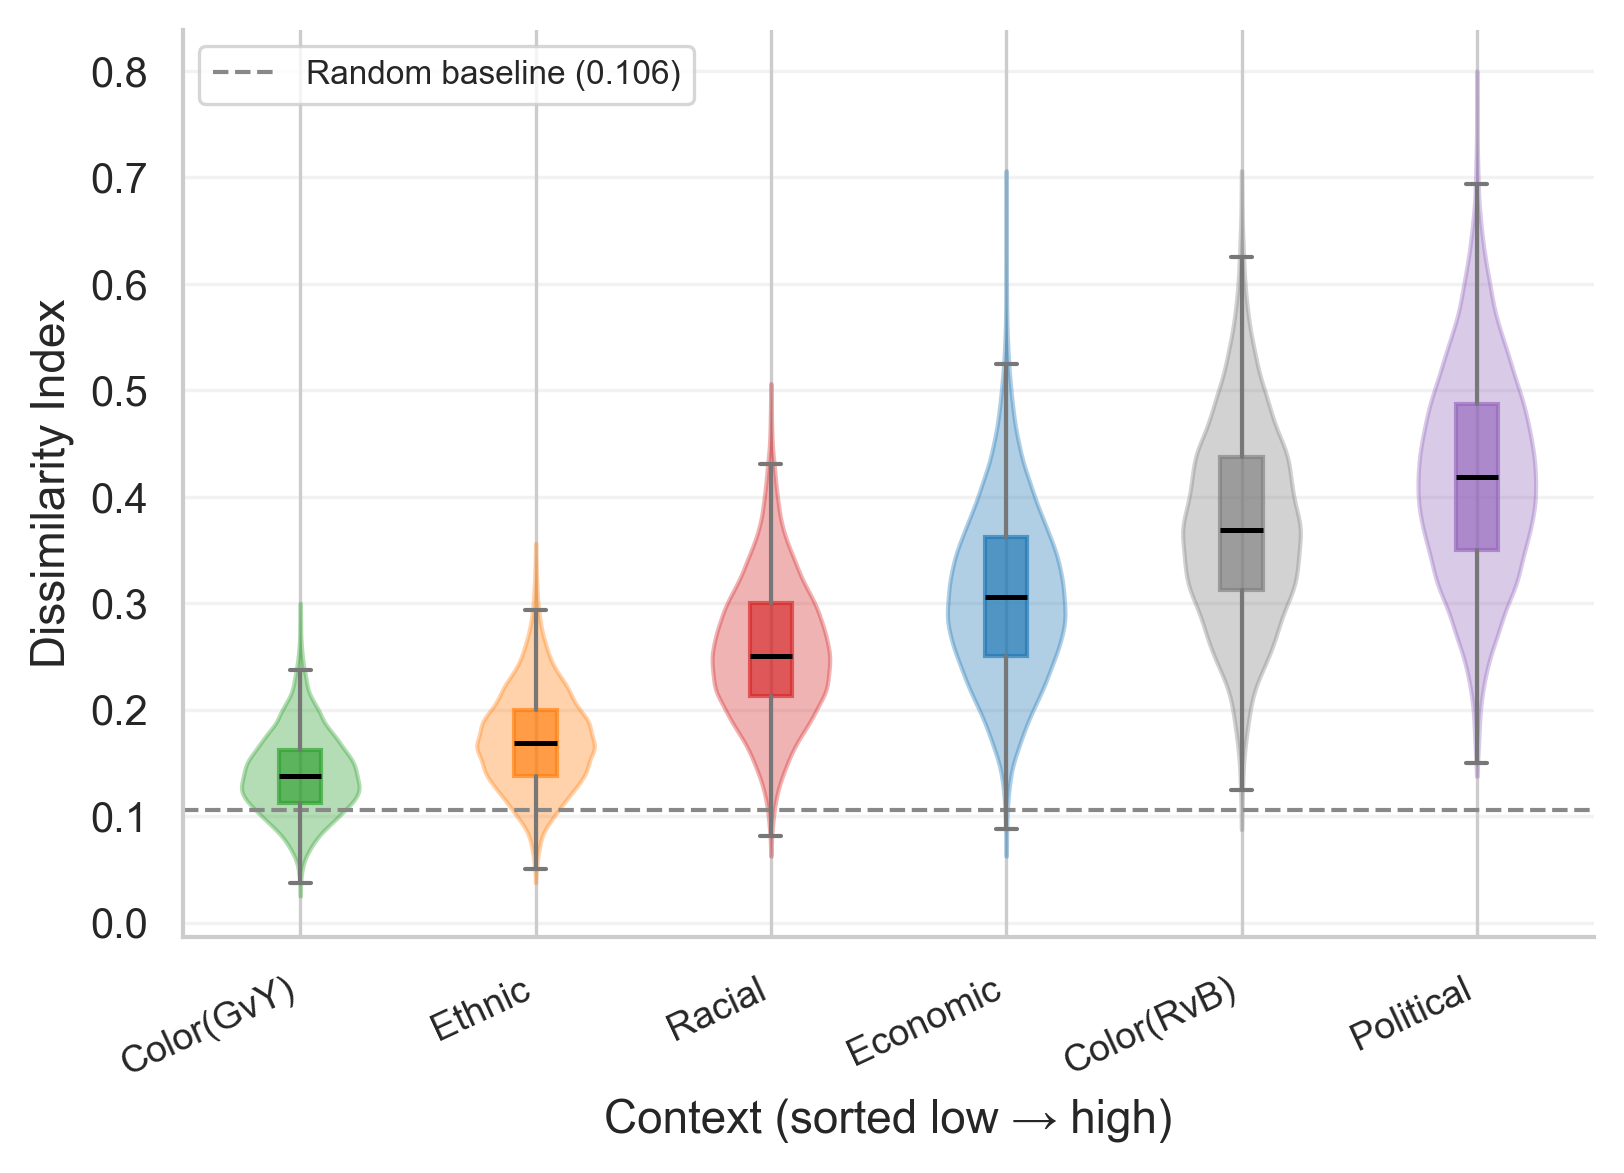
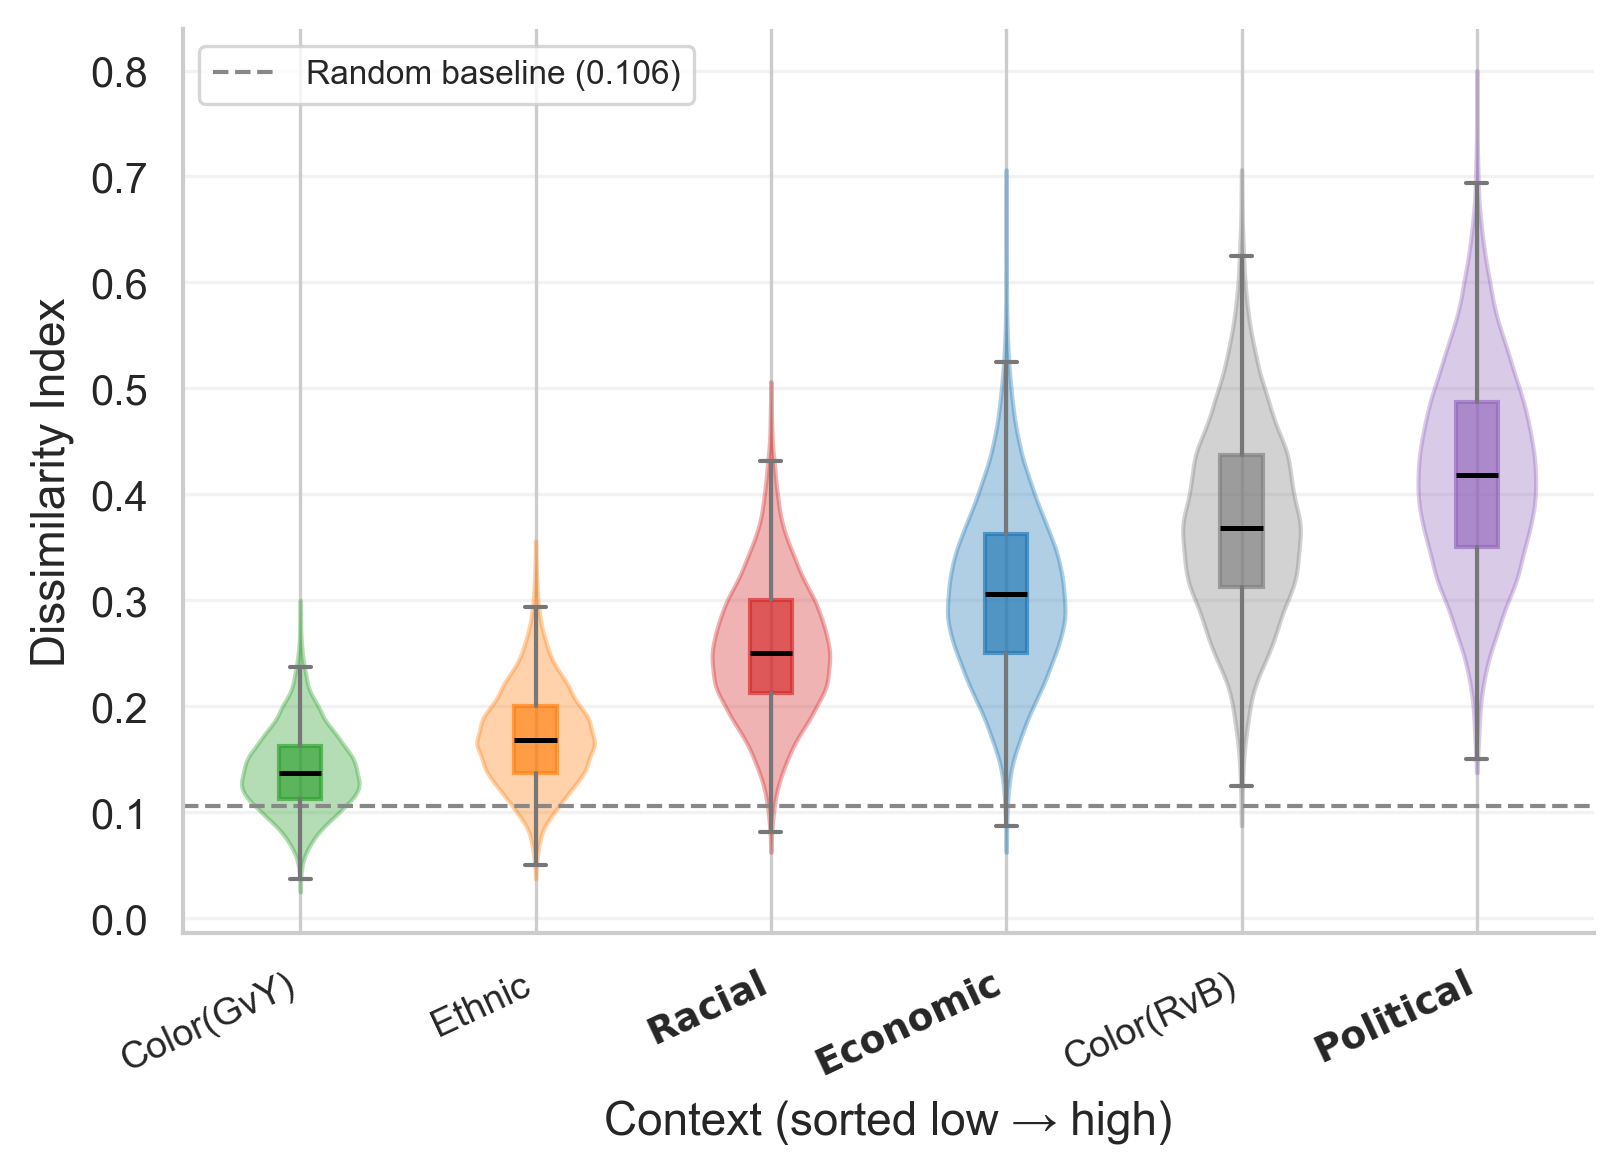
new conv plots

diff --git a/analysis_tools/ccs2026_presentation/generate_convergence_plots.py b/analysis_tools/ccs2026_presentation/generate_convergence_plots.py
@@ -1,0 +1,261 @@
+#!/usr/bin/env python3
+"""
+Generate convergence pattern plots for CCS 2026 presentation.
+
+Modifications from original:
+1. Shorter labels (Color(GvY), Economic, etc.)
+2. No "active runs" strip at bottom (cleaner for slides)
+3. Highest DI scenarios drawn last (visible on top)
+4. Economic, Political, Racial labels in boldface
+
+Outputs to pres-overleaf.link/pres/pics/<model>_convergence_clean.png
+
+Usage:
+    python generate_convergence_plots.py           # Interactive
+    python generate_convergence_plots.py --yes     # Auto-deploy
+    python generate_convergence_plots.py --no      # Generate only, no deploy
+"""
+
+import argparse
+import shutil
+import socket
+from pathlib import Path
+
+import matplotlib.pyplot as plt
+import numpy as np
+import pandas as pd
+import seaborn as sns
+
+# Paths
+SCRIPT_DIR = Path(__file__).parent
+PROJECT_ROOT = SCRIPT_DIR.parent.parent
+EXPERIMENTS_DIR = PROJECT_ROOT / "experiments_with_llama_cpp"
+CROSS_MODEL_SOURCES = EXPERIMENTS_DIR / "cross_model" / "cross_model_vf-lp_sources.csv"
+PRES_DIR = PROJECT_ROOT / "pres-overleaf.link" / "pres"
+PICS_DIR = PRES_DIR / "pics"
+
+# Target hostname for deployment
+TARGET_HOSTNAME = "ECON-0FM96LD-L"
+
+# Short labels - bold for the 3 empirical comparison scenarios
+SCENARIO_SHORT_LABELS = {
+    'baseline': 'Color(RvB)',
+    'green_yellow': 'Color(GvY)',
+    'race_white_black': r'$\bf{Racial}$',
+    'ethnic_asian_hispanic': 'Ethnic',
+    'income_high_low': r'$\bf{Economic}$',
+    'political_liberal_conservative': r'$\bf{Political}$',
+}
+
+# Colors for scenarios
+SCENARIO_COLORS = {
+    'baseline': '#7f7f7f',           # gray
+    'green_yellow': '#2ca02c',       # green
+    'race_white_black': '#d62728',   # red
+    'ethnic_asian_hispanic': '#ff7f0e',  # orange
+    'income_high_low': '#1f77b4',    # blue
+    'political_liberal_conservative': '#9467bd',  # purple
+}
+
+
+def load_dissimilarity_by_step(run_dir: str) -> pd.DataFrame:
+    """Load dissimilarity_by_step data for a model."""
+    # Try the analysis folder first
+    dissim_path = EXPERIMENTS_DIR / run_dir / "analysis" / "dissimilarity_index" / "dissimilarity_by_step_all.csv.gz"
+    if dissim_path.exists():
+        return pd.read_csv(dissim_path)
+    return pd.DataFrame()
+
+
+def step_stats_forward_filled(df: pd.DataFrame, metric: str):
+    """
+    Compute mean and CI at each step, forward-filling for runs that ended early.
+
+    Returns: (mean_series, ci_series)
+    """
+    if df.empty or metric not in df.columns:
+        return pd.Series(dtype=float), pd.Series(dtype=float)
+
+    # Get max step per run
+    max_steps = df.groupby('run_id')['step'].max()
+    global_max = int(df['step'].max())
+
+    # For each step, compute stats using forward-filled values
+    steps = sorted(df['step'].unique())
+    means = []
+    cis = []
+
+    # Get final value for each run (for forward filling)
+    final_vals = df.loc[df.groupby('run_id')['step'].idxmax(), ['run_id', metric]].set_index('run_id')[metric]
+
+    for step in steps:
+        # Get values at this step
+        step_data = df[df['step'] == step].set_index('run_id')[metric]
+
+        # For runs that ended before this step, use their final value
+        all_runs = final_vals.index
+        values = []
+        for run_id in all_runs:
+            if run_id in step_data.index:
+                values.append(step_data[run_id])
+            elif max_steps[run_id] < step:
+                # Run ended, use final value
+                values.append(final_vals[run_id])
+
+        if values:
+            arr = np.array(values)
+            means.append(arr.mean())
+            # 95% CI
+            cis.append(1.96 * arr.std() / np.sqrt(len(arr)))
+        else:
+            means.append(np.nan)
+            cis.append(np.nan)
+
+    return pd.Series(means, index=steps), pd.Series(cis, index=steps)
+
+
+def generate_convergence_plot(model: str, run_dir: str, output_path: Path) -> bool:
+    """Generate a clean convergence plot for one model."""
+    df = load_dissimilarity_by_step(run_dir)
+    if df.empty:
+        print(f"  WARNING: No dissimilarity_by_step data for {model}")
+        return False
+
+    # Compute final mean DI per scenario for sorting (highest drawn last = on top)
+    scenario_final_di = {}
+    for scenario in df['scenario'].unique():
+        scenario_df = df[df['scenario'] == scenario]
+        final_step = scenario_df['step'].max()
+        final_vals = scenario_df[scenario_df['step'] == final_step]['dissimilarity_index']
+        scenario_final_di[scenario] = final_vals.mean()
+
+    # Sort scenarios by final DI (ascending, so highest is drawn last)
+    sorted_scenarios = sorted(scenario_final_di.keys(), key=lambda s: scenario_final_di[s])
+
+    # Set up figure
+    sns.set_theme(style="whitegrid", context="paper", font_scale=1.0)
+    plt.rcParams.update({
+        "figure.dpi": 300,
+        "savefig.dpi": 300,
+        "axes.spines.top": False,
+        "axes.spines.right": False,
+        "axes.labelsize": 11,
+        "axes.titlesize": 12,
+        "xtick.labelsize": 9,
+        "ytick.labelsize": 10,
+        "legend.fontsize": 9,
+    })
+
+    fig, ax = plt.subplots(figsize=(5.5, 4))
+
+    # Plot each scenario (sorted so highest DI is drawn last = on top)
+    for scenario in sorted_scenarios:
+        scenario_df = df[df['scenario'] == scenario]
+        if scenario_df.empty:
+            continue
+
+        mean_values, ci = step_stats_forward_filled(scenario_df, 'dissimilarity_index')
+        if mean_values.empty:
+            continue
+
+        # Limit to 1000 steps
+        max_step = min(1000, mean_values.index.max())
+        steps = mean_values.index[mean_values.index <= max_step]
+
+        color = SCENARIO_COLORS.get(scenario, '#999999')
+        label = SCENARIO_SHORT_LABELS.get(scenario, scenario)
+
+        # Plot mean line
+        ax.plot(steps, mean_values[steps],
+                label=label,
+                linewidth=2.0, alpha=0.95, color=color)
+
+        # Add confidence interval
+        ax.fill_between(steps,
+                        mean_values[steps] - ci[steps],
+                        mean_values[steps] + ci[steps],
+                        alpha=0.15, color=color)
+
+    # Formatting
+    ax.set_xlabel('Simulation Step')
+    ax.set_ylabel('Dissimilarity Index')
+    ax.grid(True, axis='y', alpha=0.25)
+    ax.legend(loc='lower right', fontsize=8)
+    sns.despine(ax=ax)
+
+    plt.tight_layout()
+    plt.savefig(output_path, dpi=300, bbox_inches='tight')
+    plt.close()
+
+    return True
+
+
+def main():
+    parser = argparse.ArgumentParser(description="Generate clean convergence plots")
+    parser.add_argument("--yes", action="store_true", help="Auto-deploy without asking")
+    parser.add_argument("--no", action="store_true", help="Generate only, no deployment")
+    args = parser.parse_args()
+
+    print("=" * 60)
+    print("Generating Clean Convergence Plots for CCS 2026")
+    print("=" * 60)
+
+    # Load model sources
+    print("\n1. Loading model sources...")
+    sources = pd.read_csv(CROSS_MODEL_SOURCES)
+    print(f"   Found {len(sources)} models")
+
+    # Create output directory
+    output_dir = SCRIPT_DIR / "convergence_plots"
+    output_dir.mkdir(exist_ok=True)
+
+    # Generate plots
+    print("\n2. Generating convergence plots...")
+    generated = []
+    for _, row in sources.iterrows():
+        model = row['model']
+        run_dir = row['run_dir']
+        short_name = model.split('-')[0]
+
+        output_path = output_dir / f"{short_name}_convergence_clean.png"
+
+        if generate_convergence_plot(model, run_dir, output_path):
+            generated.append((model, short_name, output_path))
+            print(f"   Generated: {short_name}_convergence_clean.png")
+
+    print(f"\n   Generated {len(generated)} plots in {output_dir}")
+
+    if args.no:
+        print("\n--no flag: skipping deployment")
+        return
+
+    # Check hostname for deployment
+    hostname = socket.gethostname()
+    print(f"\nHostname: {hostname}")
+
+    if hostname != TARGET_HOSTNAME:
+        print(f"\nNot on target machine ({TARGET_HOSTNAME}).")
+        print(f"Plots saved to: {output_dir}")
+        return
+
+    # Deploy
+    if args.yes:
+        do_deploy = True
+    else:
+        response = input(f"\nDeploy {len(generated)} plots to {PICS_DIR}? [y/N] ")
+        do_deploy = response.lower() in ('y', 'yes')
+
+    if do_deploy:
+        print("\n3. Deploying to presentation folder...")
+        PICS_DIR.mkdir(parents=True, exist_ok=True)
+        for model, short_name, src_path in generated:
+            dst_path = PICS_DIR / f"{short_name}_convergence_clean.png"
+            shutil.copy2(src_path, dst_path)
+            print(f"   Copied: {dst_path.name}")
+        print(f"\nDone! Deployed to {PICS_DIR}")
+    else:
+        print("\nDeployment skipped.")
+
+
+if __name__ == "__main__":
+    main()

diff --git a/analysis_tools/ccs2026_presentation/generate_sorted_segregation_plots.py b/analysis_tools/ccs2026_presentation/generate_sorted_segregation_plots.py
@@ -34,14 +34,14 @@ PICS_DIR = PRES_DIR / "pics"
 # Target hostname for deployment
 TARGET_HOSTNAME = "ECON-0FM96LD-L"
 
-# Short labels as requested
+# Short labels - bold for the 3 empirical comparison scenarios
 SCENARIO_SHORT_LABELS = {
     'baseline': 'Color(RvB)',
     'green_yellow': 'Color(GvY)',
-    'race_white_black': 'Racial',
+    'race_white_black': r'$\bf{Racial}$',
     'ethnic_asian_hispanic': 'Ethnic',
-    'income_high_low': 'Economic',
-    'political_liberal_conservative': 'Political',
+    'income_high_low': r'$\bf{Economic}$',
+    'political_liberal_conservative': r'$\bf{Political}$',
 }
 
 # Colors for scenarios (consistent with original)

diff --git a/README.md b/README.md
@@ -208,14 +208,29 @@ python analysis_tools/ccs2026_presentation/deploy_model_images.py --no
 
 **Sorted segregation plots:** `analysis_tools/ccs2026_presentation/generate_sorted_segregation_plots.py`
 
-Generates alternative segregation plots where scenarios are **sorted by mean DI** (lowest to highest) for each model, helping readers understand the ordering visually. Uses shorter labels:
-- Color(GvY), Color(RvB), Economic, Ethnic, Racial, Political
+Generates alternative segregation plots where scenarios are **sorted by mean DI** (lowest to highest) for each model, helping readers understand the ordering visually. Uses shorter labels with **bold** for the 3 empirical comparison scenarios:
+- Color(GvY), Color(RvB), **Economic**, Ethnic, **Racial**, **Political**
 
 ```bash
 python analysis_tools/ccs2026_presentation/generate_sorted_segregation_plots.py --yes
 ```
 
 Output: `pics/<model>_segregation_sorted.png`
+
+**Clean convergence plots:** `analysis_tools/ccs2026_presentation/generate_convergence_plots.py`
+
+Generates simplified convergence plots with:
+- Shorter labels (same as above, with bold)
+- No "active runs" strip (cleaner for slides)
+- Highest DI scenarios drawn last (visible on top when lines overlap)
+
+**Requires:** `<run>/analysis/dissimilarity_index/dissimilarity_by_step_all.csv.gz` (not in git due to size)
+
+```bash
+python analysis_tools/ccs2026_presentation/generate_convergence_plots.py --yes
+```
+
+Output: `pics/<model>_convergence_clean.png`
 
 **Cross-model comparison images (already generated):**
 ```
